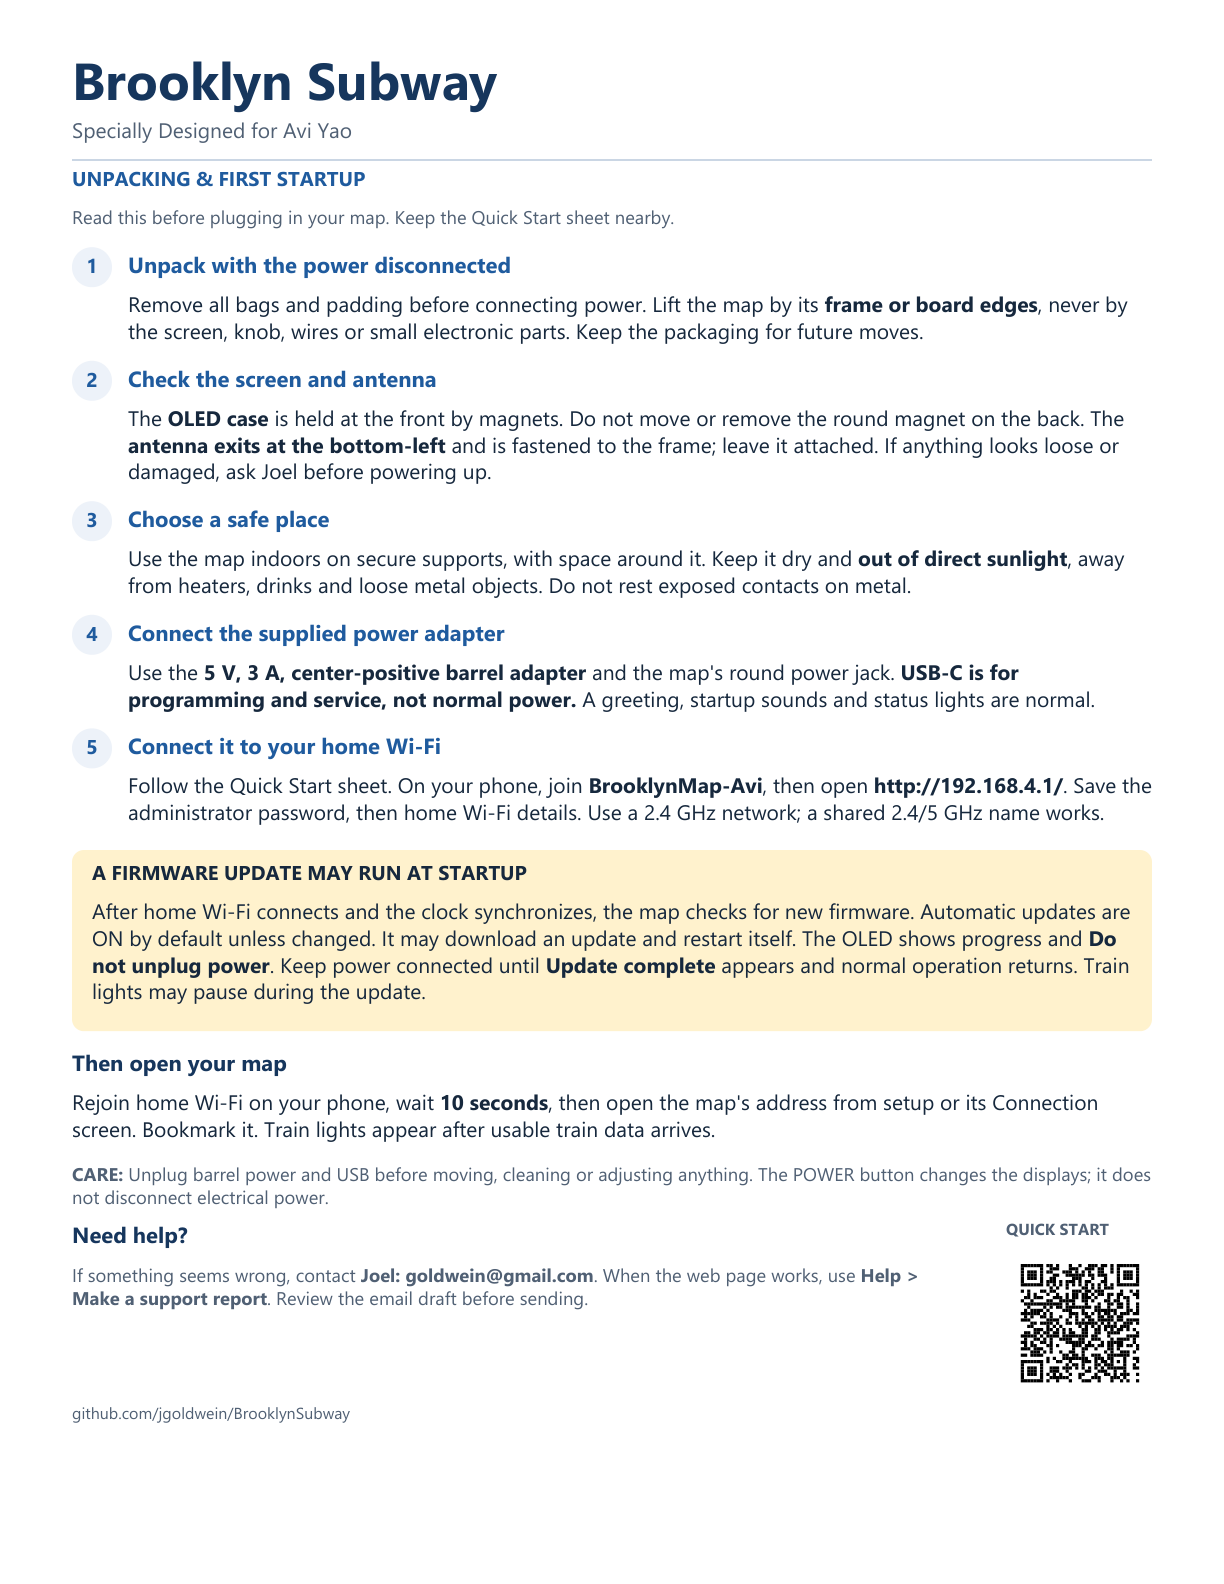
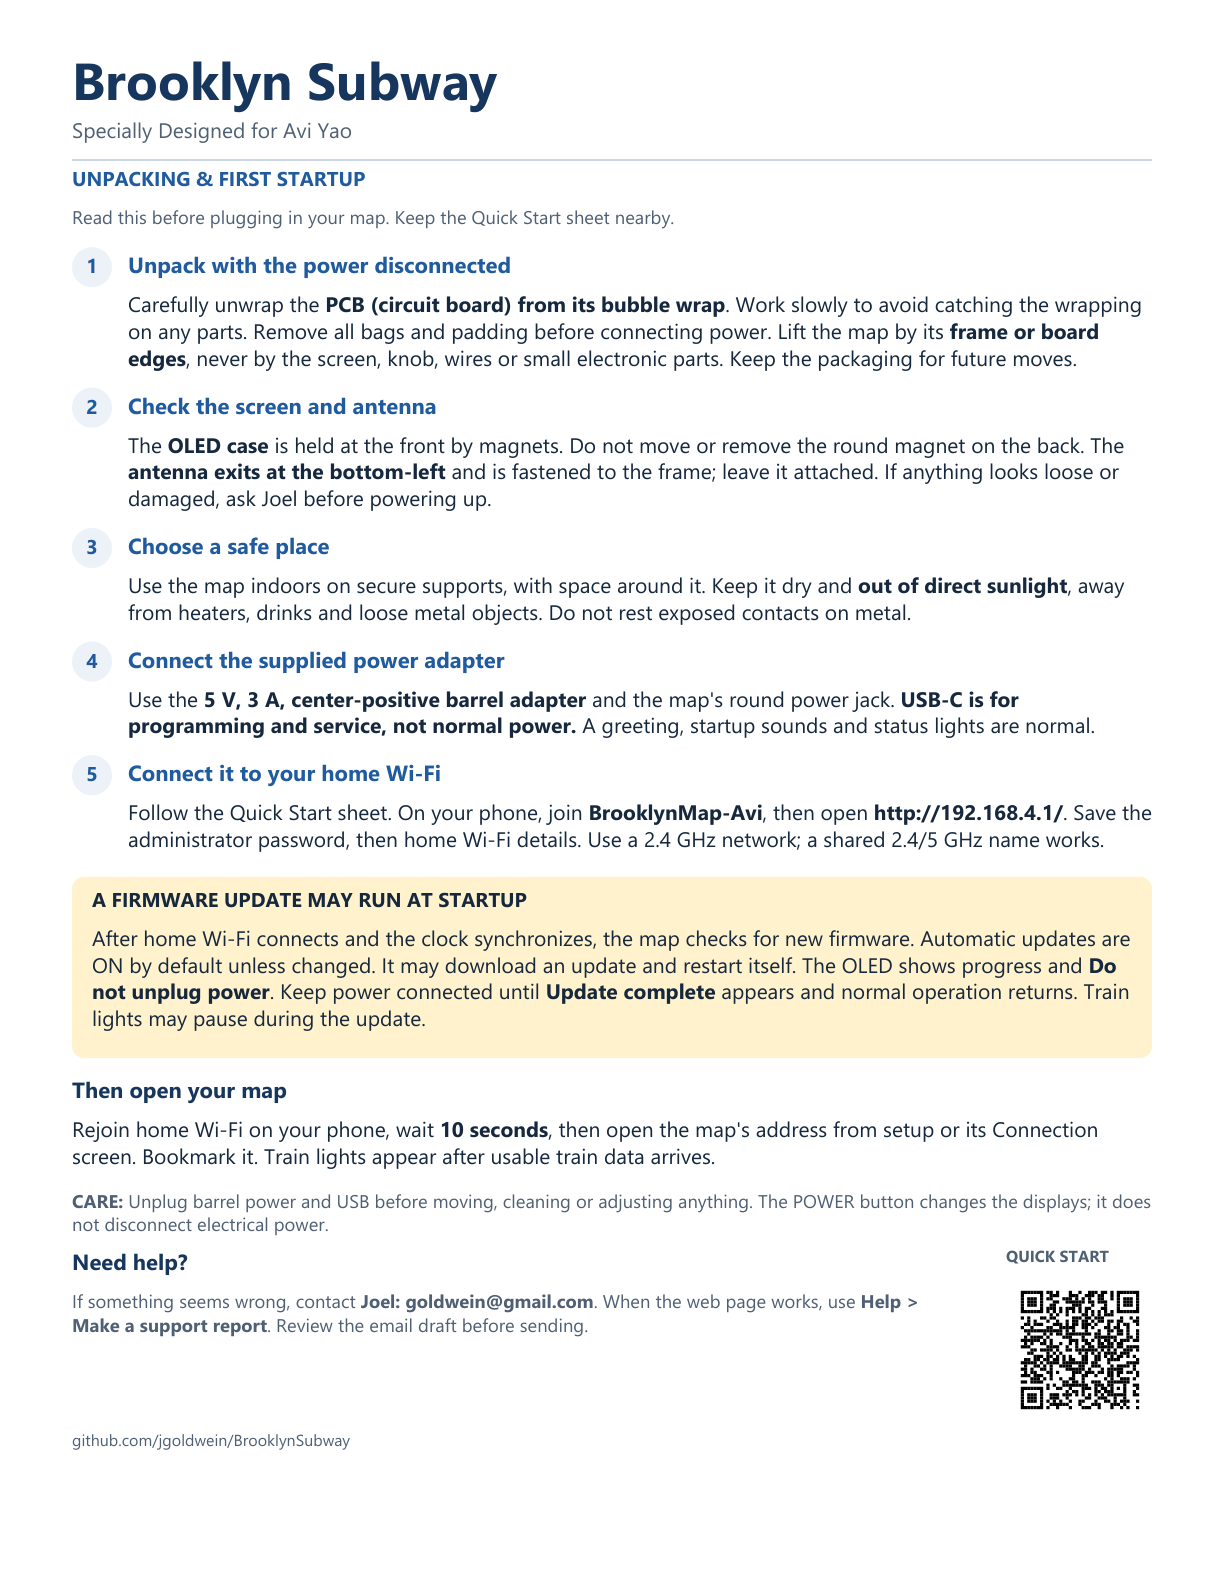
Add careful bubble-wrap removal to unpacking guide

diff --git a/docs/shipping/build_unpacking_guide.py b/docs/shipping/build_unpacking_guide.py
@@ -85,7 +85,7 @@ lines+=['## '+D['update_title'],'',plain(D['update_text']),'','## '+D['after_tit
 pdf=PdfReader(ROOT/'Brooklyn_Subway_Unpacking_Guide.pdf');assert len(pdf.pages)==1
 assert list(pdf.pages[0].mediabox)==[0,0,612,792]
 text=" ".join(pdf.pages[0].extract_text().split())
-for phrase in ['Do not unplug power','Update complete','BrooklynMap-Avi','192.168.4.1','direct sunlight','USB-C','magnet','antenna','5 V, 3 A']:
+for phrase in ['bubble wrap','Do not unplug power','Update complete','BrooklynMap-Avi','192.168.4.1','direct sunlight','USB-C','magnet','antenna','5 V, 3 A']:
  assert phrase in text,phrase
 for secret in ['10.1.1.27','10.1.1.56','tsunami2']:assert secret not in text
 render=pymupdf.open(ROOT/'Brooklyn_Subway_Unpacking_Guide.pdf')

diff --git a/docs/shipping/Brooklyn_Subway_Unpacking_Guide.md b/docs/shipping/Brooklyn_Subway_Unpacking_Guide.md
@@ -4,7 +4,7 @@ Specially Designed for Avi Yao
 
 Read this before plugging in your map. Keep the Quick Start sheet nearby.
 
-1. **Unpack with the power disconnected.** Remove all bags and padding before connecting power. Lift the map by its **frame or board edges**, never by the screen, knob, wires or small electronic parts. Keep the packaging for future moves.
+1. **Unpack with the power disconnected.** Carefully unwrap the **PCB (circuit board) from its bubble wrap**. Work slowly to avoid catching the wrapping on any parts. Remove all bags and padding before connecting power. Lift the map by its **frame or board edges**, never by the screen, knob, wires or small electronic parts. Keep the packaging for future moves.
 
 2. **Check the screen and antenna.** The **OLED case** is held at the front by magnets. Do not move or remove the round magnet on the back. The **antenna exits at the bottom-left** and is fastened to the frame; leave it attached. If anything looks loose or damaged, ask Joel before powering up.
 
